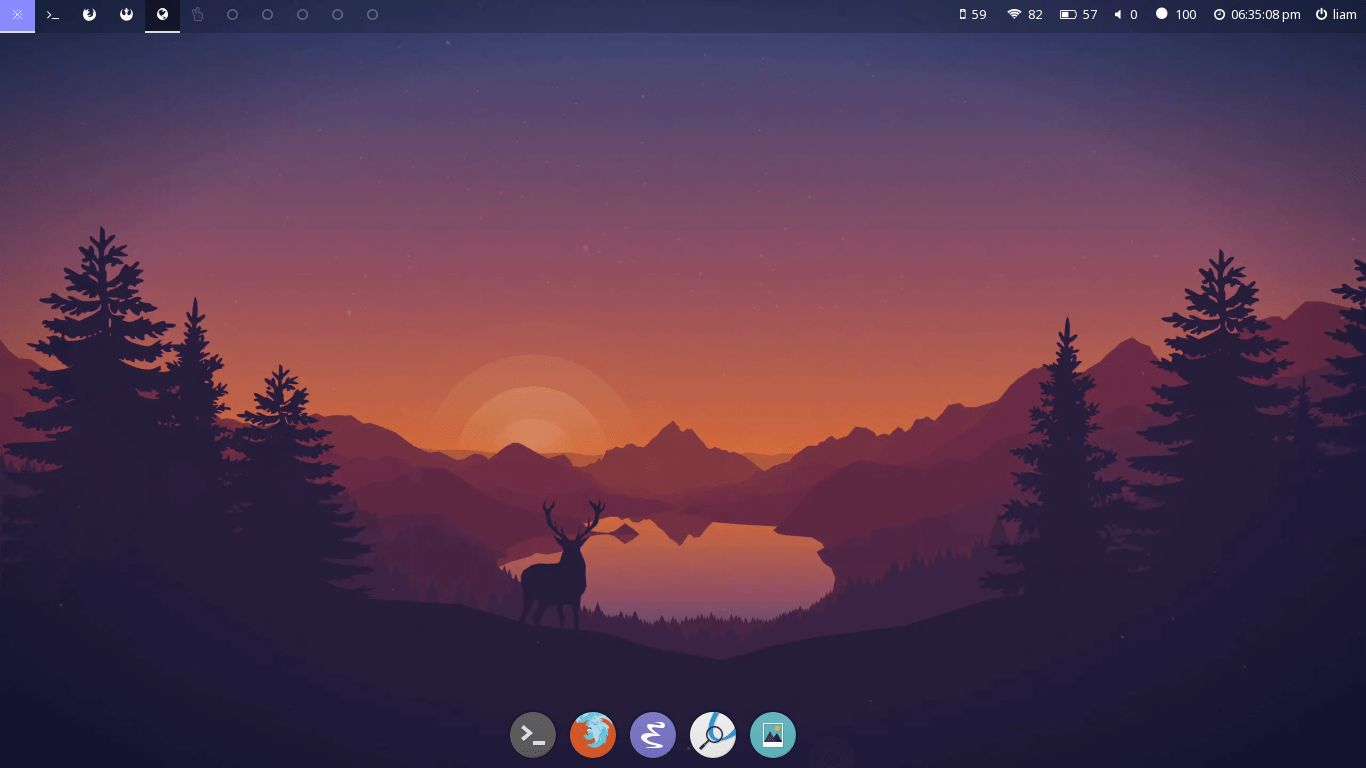
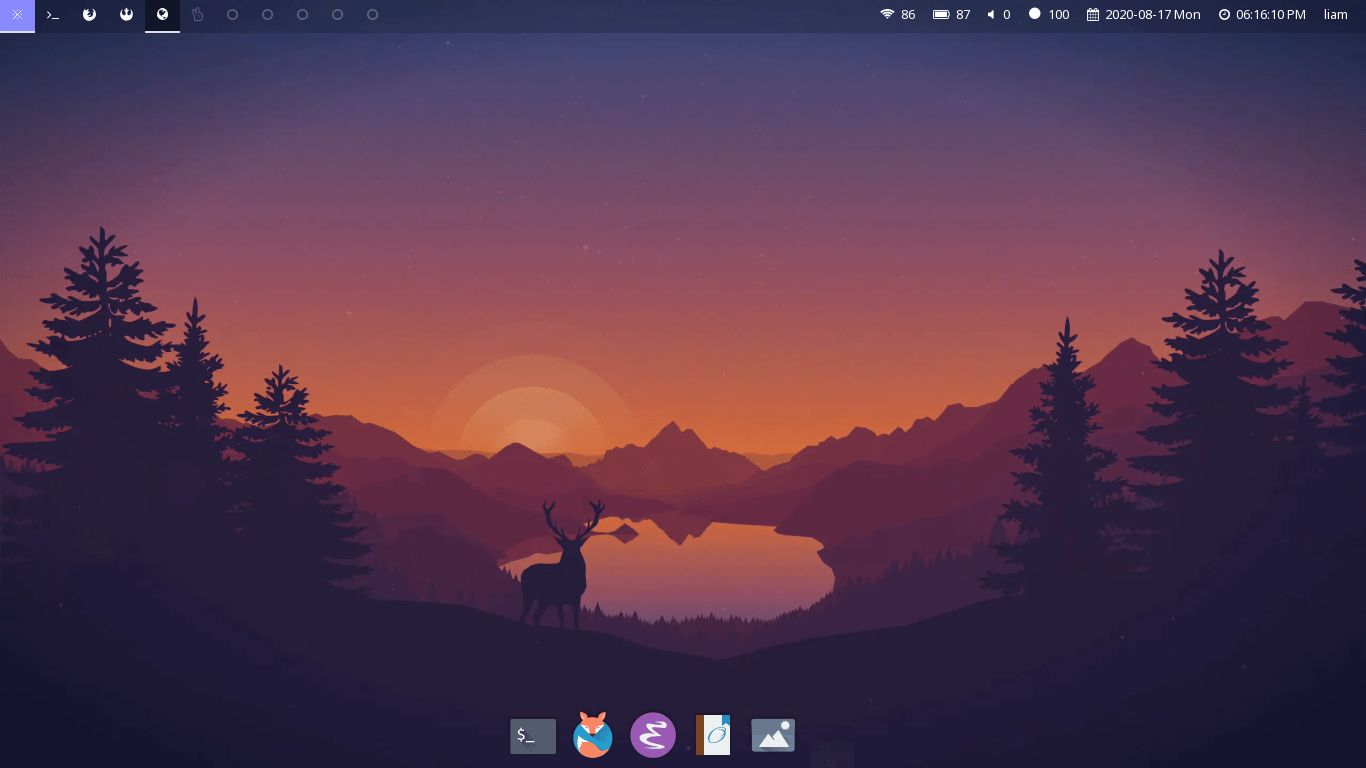
Update setup.

Changed region(s): [[0.369, 0.9062, 0.5842, 1.0], [0.6457, 0.0, 1.0, 0.0312]]

diff --git a/about/index.md b/about/index.md
@@ -96,7 +96,7 @@ bundle exec jekyll serve
 - browser ⇢ [Firefox](https://www.mozilla.org/)
 - computer ⇢ [Thinkpad X220](https://en.wikipedia.org/wiki/ThinkPad_X_series)
 - editor ⇢ [Vim](https://www.vim.org/) + [Emacs](https://www.gnu.org/software/emacs/)
-- icons ⇢ [Numix Circle](https://github.com/numixproject/numix-icon-theme-circle)
+- icons ⇢ [Oranchelo](https://github.com/OrancheloTeam/oranchelo-icon-theme)
 - launcher ⇢ [Rofi](https://github.com/davatorium/rofi)
 - os ⇢ [Void (linux)](https://voidlinux.org/)
 - plank ⇢ [Plank](https://launchpad.net/plank)
